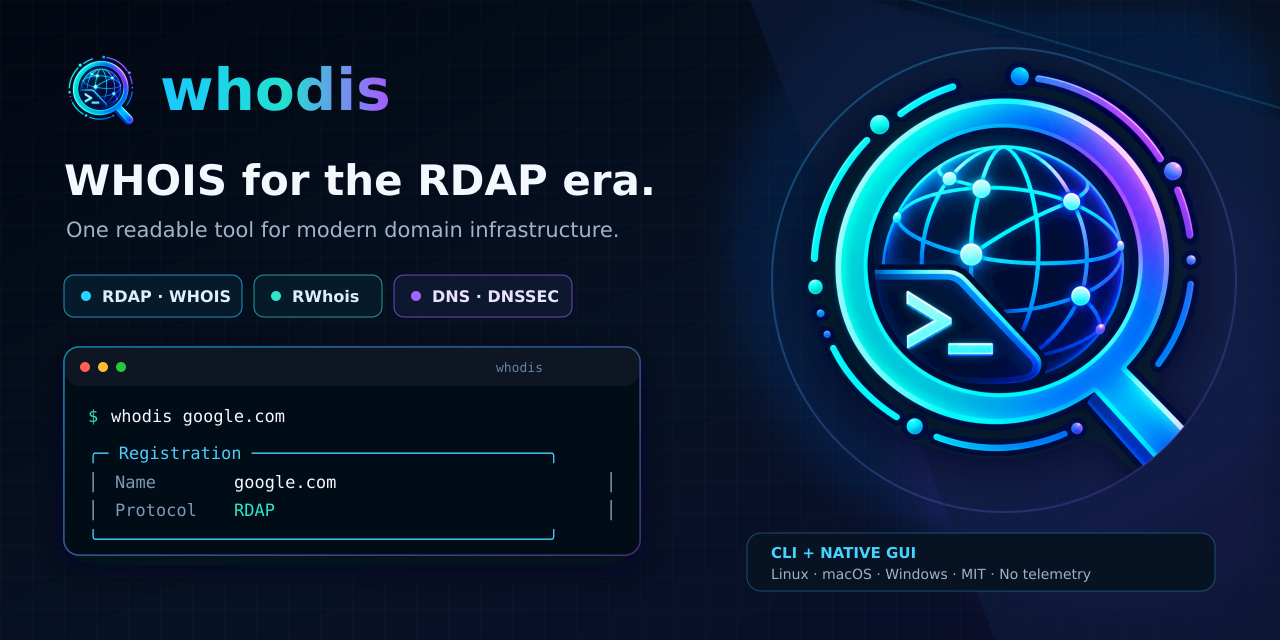
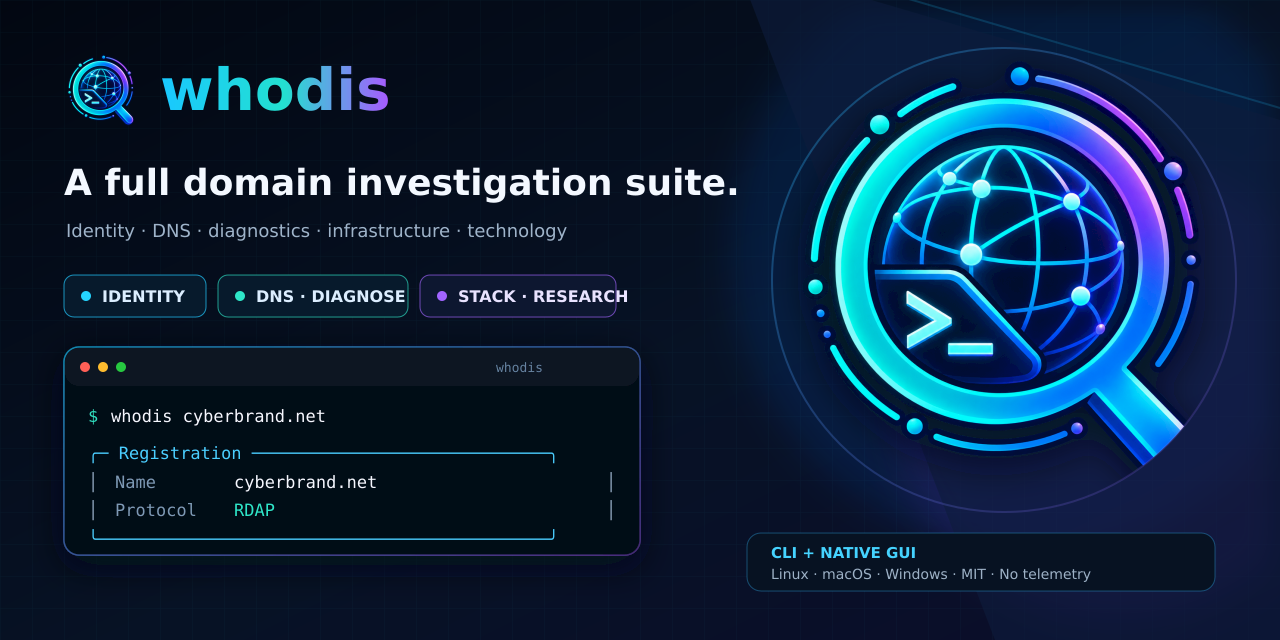
docs: present Whodis as a domain investigation suite

diff --git a/desktop/src/MainWindow.cpp b/desktop/src/MainWindow.cpp
@@ -98,7 +98,7 @@ MainWindow::MainWindow(QWidget *parent)
     auto *helpMenu = menuBar()->addMenu(tr("&Help"));
     helpMenu->addAction(tr("About Whodis"), this, [this] {
         QMessageBox::about(this, tr("About Whodis"),
-                           tr("Whodis %1\n\nA modern WHOIS alternative for registration, DNS, diagnostics, and evidence-backed stack investigation.\n\nHomepage: https://cyberbrand.net/whodis/\nSource and releases: https://github.com/Alex9001/whodis\n\nMIT © 2026 Aleksandr Oreshkin")
+                           tr("Whodis %1\n\nA full, evidence-backed domain investigation suite for registration, DNS, infrastructure, diagnostics, technology detection, research, and change monitoring.\n\nHomepage: https://cyberbrand.net/whodis/\nSource and releases: https://github.com/Alex9001/whodis\n\nMIT © 2026 Aleksandr Oreshkin")
                                .arg(QStringLiteral(WHODIS_GUI_VERSION)));
     });
 

diff --git a/README.md b/README.md
@@ -5,8 +5,9 @@
 <h1 align="center">whodis</h1>
 
 <p align="center">
-  <strong>A WHOIS alternative that actually understands modern domain infrastructure.</strong><br>
-  Whodis starts with authoritative RDAP, falls back to WHOIS when needed, follows RWhois referrals, and turns the result into something you can read.
+  <strong>A full, evidence-backed domain investigation suite.</strong><br>
+  See who—and what—is behind a domain: registration, DNS, infrastructure,
+  diagnostics, web technology, related domains, and change over time.
 </p>
 
 <p align="center">
@@ -25,20 +26,56 @@
   <a href="https://github.com/Alex9001/whodis/issues">Issues</a>
 </p>
 
-Classic `whois` gives you a protocol-era text dump. Whodis accepts a
-domain, IP address, network, or ASN, discovers the right RDAP, WHOIS, or RWhois
-authority, and organizes the answer into a responsive terminal dashboard. It
-also grows into a full domain workstation when you need it: inventory DNS,
-compare resolvers, verify DNSSEC, trace delegation, diagnose web and mail
-service, profile a site's technology and infrastructure with explainable
-evidence, save snapshots, detect changes, enforce health policy, or export a
-stable machine-readable report.
+<p align="center"><strong>One command. The identity behind the domain.</strong></p>
 
-## Output made for humans—and scripts
+![Whodis terminal dashboard showing an automatic RDAP lookup for cyberbrand.net](docs/whodis-cli.png)
 
-- **Responsive terminal dashboard** — a spreadsheet-like panel grid that uses
+`whodis cyberbrand.net` discovers the authoritative source automatically and
+turns the result into a readable terminal workspace. Start there for the
+original question. Go deeper when you need the whole story.
+
+## One target. The answer you need
+
+Whodis accepts a domain, IP address, network, or ASN. Registration identity is
+the effortless default; focused operations add DNS, service health,
+infrastructure attribution, technology evidence, research pivots, and change
+tracking without making the simple lookup complicated.
+
+| Question | Command | What Whodis shows |
+|---|---|---|
+| Who manages it? | `whodis cyberbrand.net` | Authoritative RDAP, WHOIS, or RWhois registration, status, dates, contacts, and nameservers |
+| What is published? | `whodis inspect cyberbrand.net` | Registration plus a practical public-DNS inventory |
+| Is it configured and reachable? | `whodis diagnose cyberbrand.net` | DNS, delegation, web, TLS, mail, and advertised-service findings |
+| What is behind the site? | `whodis investigate cyberbrand.net` | Hosting and network attribution, technology stack, homepage observations, research links, and evidence |
+| What changed or needs attention? | `whodis diff …` / `whodis check …` | Semantic changes and deterministic policy results for automation or monitoring |
+
+## A full domain investigation suite
+
+- **Registration and identity** — route domains, IPs, networks, and ASNs to
+  the right IANA-published RDAP authority, fall back to WHOIS when appropriate,
+  and follow RWhois referrals without making users learn the protocol map.
+- **DNS and delegation** — inventory records, query arbitrary types, compare
+  resolvers, validate DNSSEC, trace delegation from the root, and perform
+  explicit bounded zone transfers.
+- **Infrastructure and service diagnostics** — connect public DNS to network
+  ownership, hosting signals, HTTP, TLS, SMTP, mail policy, reachability, and
+  advertised services with scoped findings instead of an opaque score.
+- **Website technology investigation** — identify platforms, versions,
+  WordPress plugins and themes, commerce, optimization, server and edge
+  technology, and homepage delivery signals with confidence and inspectable
+  evidence.
+- **Research and relationships** — generate curated manual pivots for public
+  sources and, only when requested, add bounded AlienVault OTX passive-DNS
+  observations without presenting historical neighbors as ownership claims.
+- **Change tracking and automation** — save sanitized observations, compare
+  meaningful changes, enforce policy, process large batches, and export a
+  stable report for scripts and other applications.
+
+## Built for terminals, desktops, and automation
+
+- **Responsive terminal dashboard** — a spreadsheet-like panel grid uses
   the available width without repeating contacts, notices, or nameservers.
-- **Multiple personalities** — dashboard, semantic tree, retro GeekBoys ASCII,
+- **Multiple layouts** — dashboard, semantic tree, retro GeekBoys ASCII,
   and portable plain text are one switch away.
 - **Structured output** — versioned JSON/YAML, one-row-per-target CSV, and
   streaming-friendly NDJSON support automation; Markdown makes a portable
@@ -57,7 +94,23 @@ stable machine-readable report.
   review a score-free homepage delivery, SEO, security-header, and
   accessibility snapshot.
 
-## See it in action
+<table>
+  <tr>
+    <th width="50%">Semantic tree</th>
+    <th width="50%">GeekBoys retro ASCII</th>
+  </tr>
+  <tr>
+    <td><img src="docs/whodis-cli-tree.png" alt="Whodis semantic tree output for palantir.com"></td>
+    <td><img src="docs/whodis-cli-geekboys.png" alt="Whodis GeekBoys ASCII output for geekboys.org"></td>
+  </tr>
+</table>
+
+## Native desktop when you want it
+
+The CLI stays small for shells, scripts, SSH sessions, and servers. The
+separately packaged native desktop application exposes the same engine through
+focused registration, DNS, diagnosis, investigation, research, findings,
+batch, and raw-data views.
 
 <p align="center"><strong>Registration overview</strong> · Live RDAP lookup for <code>cyberbrand.net</code></p>
 
@@ -78,9 +131,8 @@ stable machine-readable report.
 
 ![Whodis batch lookup showing four completed domain checks](docs/whodis-gui-batch.png)
 
-The terminal dashboard rearranges the same normalized data into a wide mosaic
-or a narrow single-column view. Long registry notices are deduplicated and
-summarized; `--details` expands them.
+The GUI and every terminal renderer consume the same normalized report. Long
+registry notices are deduplicated and summarized; `--details` expands them.
 
 ## Install
 
@@ -398,6 +450,8 @@ Run the interactive wizard:
 ```bash
 whodis config
 ```
+
+![Whodis interactive configuration wizard showing output format and color choices](docs/whodis-cli-config.png)
 
 It configures output layout, color, notice detail, DNS resolver and DNSSEC
 defaults, the manual research-link preset and related-result limit, plus the
